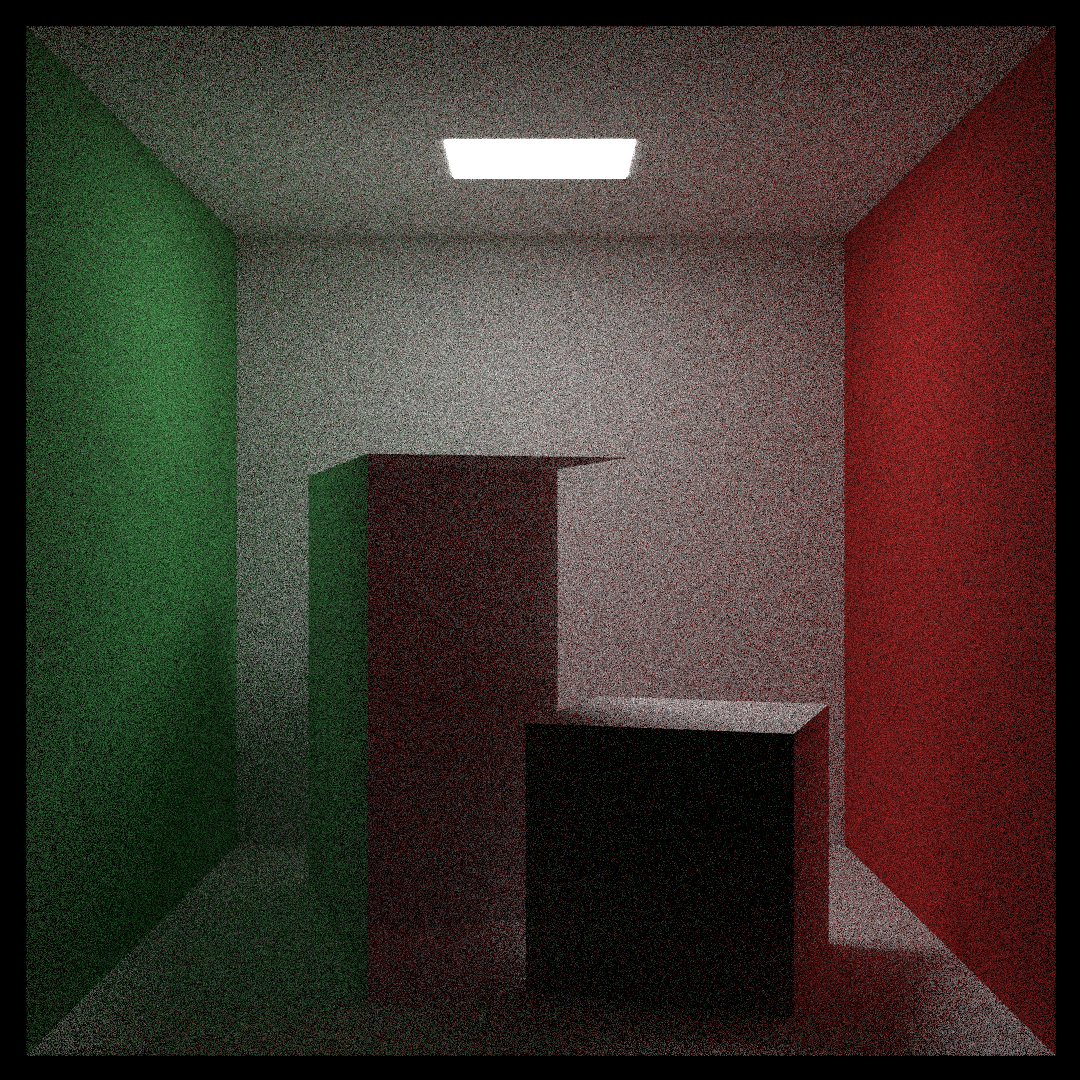
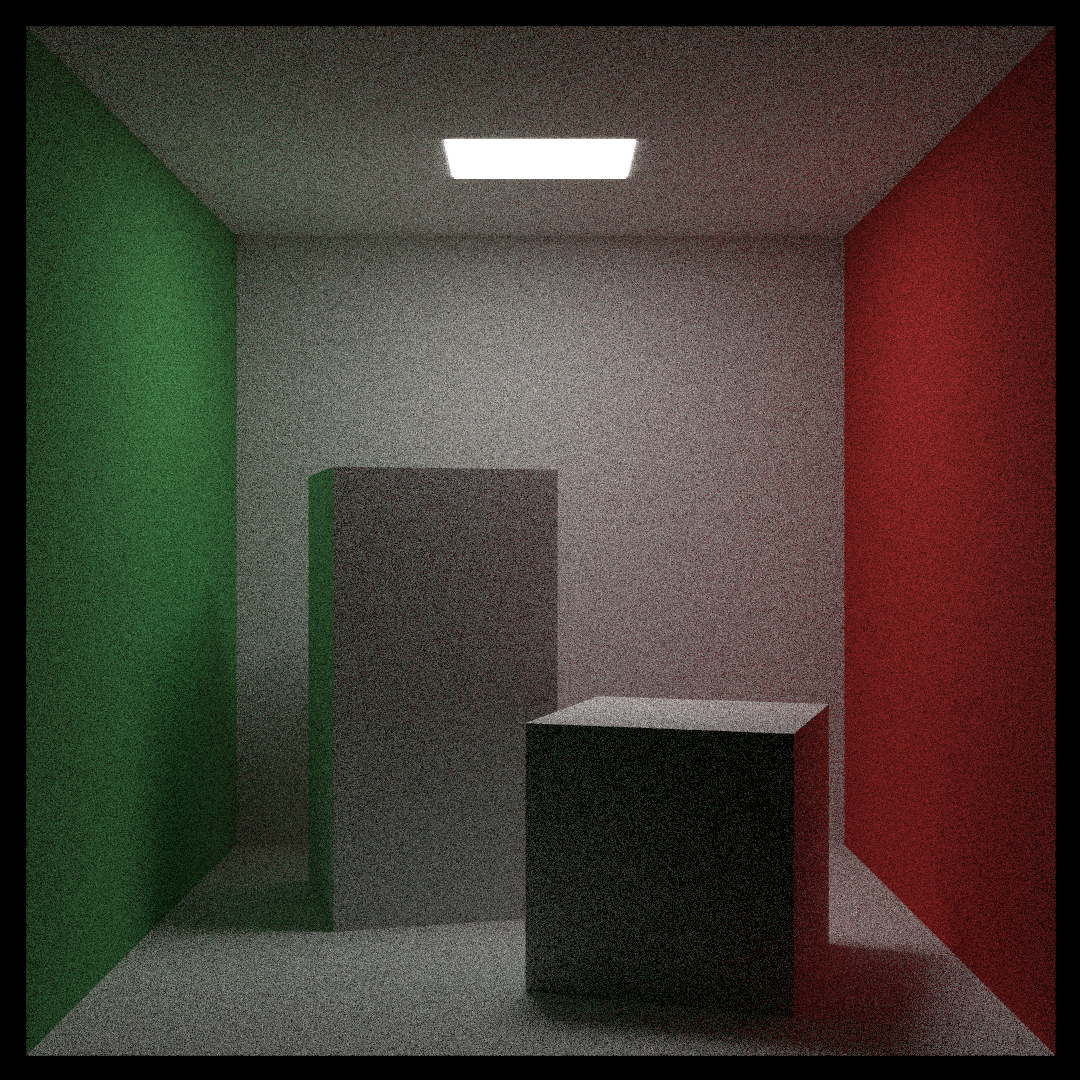
Fix bug. Add high res cornell box image.

diff --git a/examples/cornell_box.rs b/examples/cornell_box.rs
@@ -19,8 +19,8 @@ fn main() {
     let camera = CameraBuilder::default()
         .with_orientation(look_from, look_at, vup)
         .fov(40.0)
-        .image_width(800)
-        .samples_per_pixel(50)
+        .image_width(1080)
+        .samples_per_pixel(400)
         .max_depth(50)
         .aspect_ratio(1.0)
         .background(Color::black())
@@ -31,7 +31,7 @@ fn main() {
     let white = Arc::new(Lambertian::new(Color::new(0.73, 0.73, 0.73)));
     let green = Arc::new(Lambertian::new(Color::new(0.12, 0.45, 0.15)));
     let light = Arc::new(DiffuseLight::new(Arc::new(SolidColor::new(Color::new(
-        15.0, 15.0, 15.0,
+        16.0, 16.0, 16.0,
     )))));
 
     // World
@@ -83,11 +83,6 @@ fn main() {
         Point::new(165.0, 330.0, 165.0),
         white.clone(),
     ));
-    // let box1 = Arc::new(Quad::quad_box(
-    //     Point::new(130.0, 0.0, 65.0),
-    //     Point::new(295.0, 165.0, 230.0),
-    //     white.clone(),
-    // ));
     let box1 = Arc::new(RotationY::new(box1, 15.0));
     let box1 = Arc::new(Translate::new(box1, Vec3::new(265.0, 0.0, 295.0)));
     world.push(box1);

diff --git a/src/quad.rs b/src/quad.rs
@@ -73,7 +73,7 @@ impl Quad {
 
         let dx = Vec3::new(max.x() - min.x(), 0.0, 0.0);
         let dy = Vec3::new(0.0, max.y() - min.y(), 0.0);
-        let dz = Vec3::new(0.0, 0.0, max.y() - min.y());
+        let dz = Vec3::new(0.0, 0.0, max.z() - min.z());
 
         sides.push(Arc::new(Quad::new(
             Point::new(min.x(), min.y(), max.z()),
